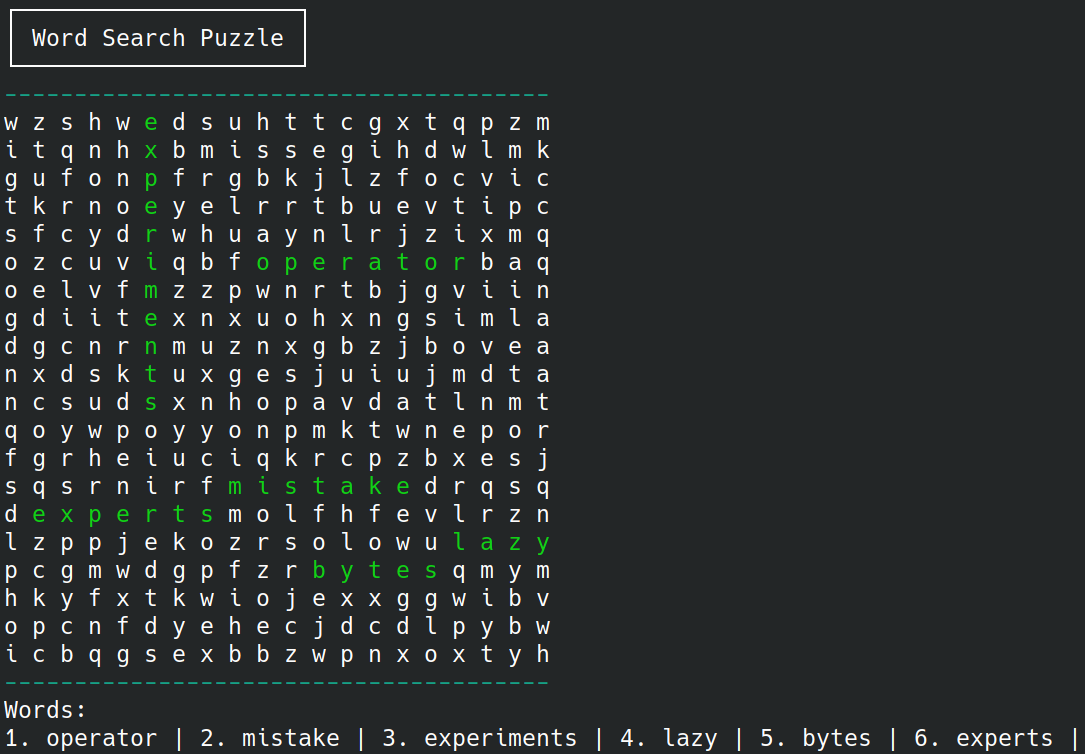
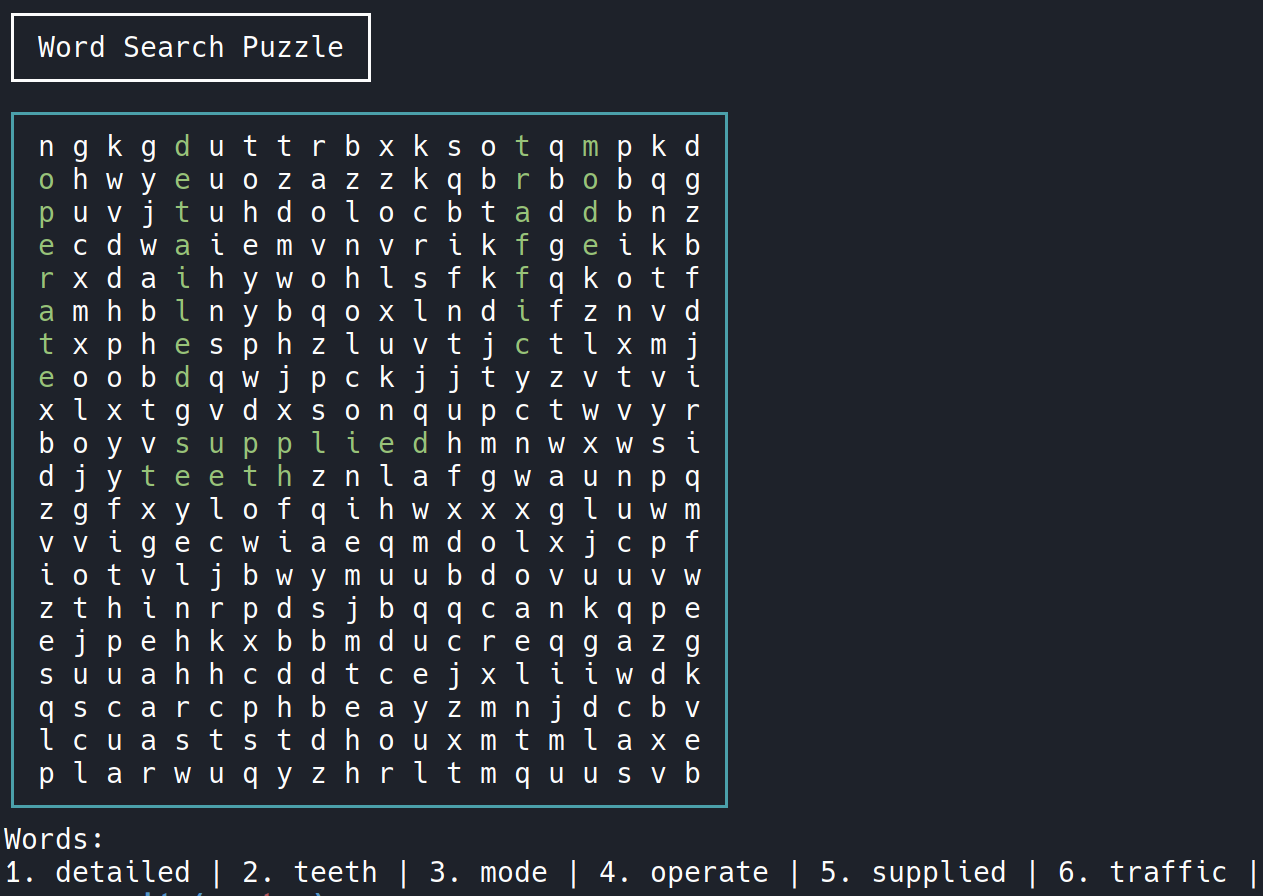
style improvements

Changed region(s): [[0.0, 0.122, 1.0, 1.0], [0.0, 0.0, 0.3041, 0.0915]]

diff --git a/src/word_grid.py b/src/word_grid.py
@@ -103,10 +103,11 @@ class WordGrid:
 	# prints the grid on the terminal
 	def print(self):
 
-		print("\033[96m" + ("-"*(2*(self.width)-1)) + "\033[0m" ) # just a nice little line
+		print("\033[96m┌" + ("─"*(2*(self.width)+1)) + "┐\033[0m" ) # just a nice little line
 		for y in range(self.width):
+			print("\033[96m│\033[0m", end=" ")
 			for x in range(self.width):
 				print(self.grid[x + y * self.width], end=" ")
-			print()
-		print("\033[96m" + ("-"*(2*(self.width)-1)) + "\033[0m" )
+			print("\033[96m│\033[0m")
+		print("\033[96m└" + ("─"*(2*(self.width)+1)) + "┘\033[0m" )
 
